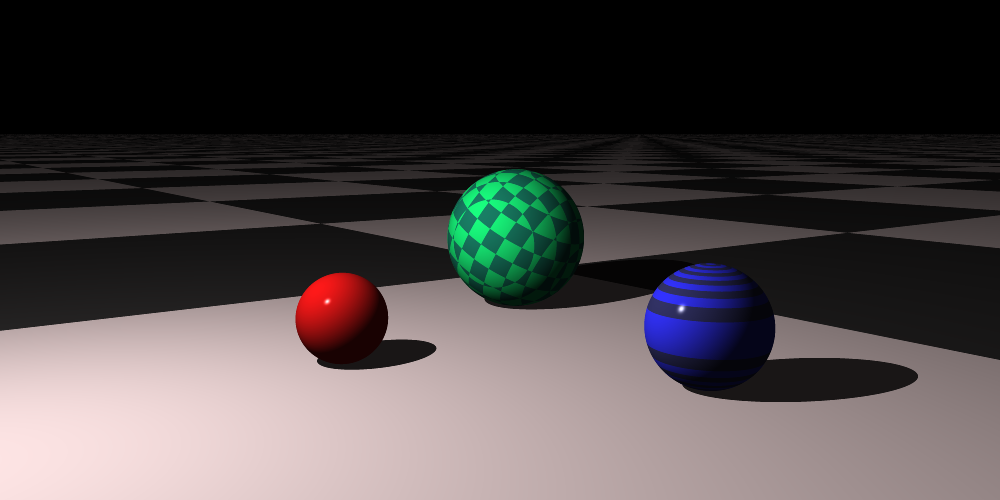
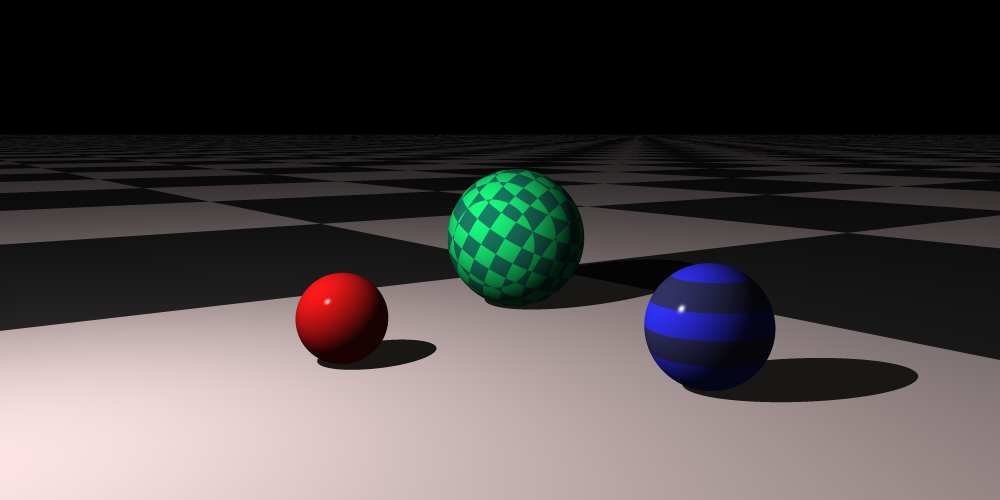
Fixed AA

Changed region(s): [[0.62, 0.51, 0.775, 0.75]]

diff --git a/scene/camera.go b/scene/camera.go
@@ -97,7 +97,7 @@ func (c *Camera) RayForPixel(x, y int) *ray.Ray {
 	yOffset := (float64(y) + 0.5) * c.pixelSize
 
 	// the untransformed coordinates of the pixel in world space.
-	// (remember that the camera looks toward -y, so +x is to the *right*.)
+	// (remember that the camera looks toward -z, so +x is to the *right*.)
 	worldX := c.halfWidth - xOffset
 	worldY := c.halfHeight - yOffset
 
@@ -121,13 +121,13 @@ func (c *Camera) AARaysForPixel(x, y int) []*ray.Ray {
 	xOffset := (float64(x) + 0.5) * c.pixelSize
 	yOffset := (float64(y) + 0.5) * c.pixelSize
 	// the distance between sampled sub-pixel points on the canvas
-	aaOffset := c.pixelSize / float64(c.AALevel+1)
+	aaOffset := c.pixelSize / float64(c.AALevel)
 	origin := c.im.MultTuple(tuple.Origin)
 
 	for aax := 0; aax < c.AALevel; aax++ {
 		for aay := 0; aay < c.AALevel; aay++ {
 			// the untransformed coordinates of the pixel in world space.
-			// (remember that the camera looks toward -y, so +x is to the *right*.)
+			// (remember that the camera looks toward -z, so +x is to the *right*.)
 			worldX := c.halfWidth - xOffset + float64(aax)*aaOffset
 			worldY := c.halfHeight - yOffset + float64(aay)*aaOffset
 
@@ -156,12 +156,12 @@ func (c *Camera) Render(w *World) *canvas.Canvas {
 }
 
 // GoRender divides the image into an n*n grid and renders each cell in a goroutine
-func (c *Camera) GoRender(n int, w *World) *canvas.Canvas {
+func (c *Camera) GoRender(w *World) *canvas.Canvas {
 	canv := canvas.NewCanvas(c.hSize, c.vSize)
 	var wg sync.WaitGroup
-	wg.Add(n * n)
-	subH := c.hSize / n
-	subV := c.vSize / n
+	wg.Add(c.AALevel * c.AALevel)
+	subH := c.hSize / c.AALevel
+	subV := c.vSize / c.AALevel
 
 	worker := func(xs, ys int) {
 		defer wg.Done()
@@ -177,8 +177,8 @@ func (c *Camera) GoRender(n int, w *World) *canvas.Canvas {
 		}
 	}
 
-	for sh := 0; sh < n; sh++ {
-		for sv := 0; sv < n; sv++ {
+	for sh := 0; sh < c.AALevel; sh++ {
+		for sv := 0; sv < c.AALevel; sv++ {
 			go worker(sh*subH, sv*subV)
 		}
 	}

diff --git a/cmd/main.go b/cmd/main.go
@@ -227,7 +227,7 @@ func drawTestScene() {
 		matrix.ViewTransform(
 			tuple.NewPoint(-15, -10, 5),
 			tuple.NewPoint(3, 3, 2),
-			tuple.Up), 4)
+			tuple.Up), 16)
 
-	c.GoRender(2, w).SaveImage("new_scene_aax4.png")
+	c.GoRender(w).SaveImage("new_scene_aax16.png")
 }
